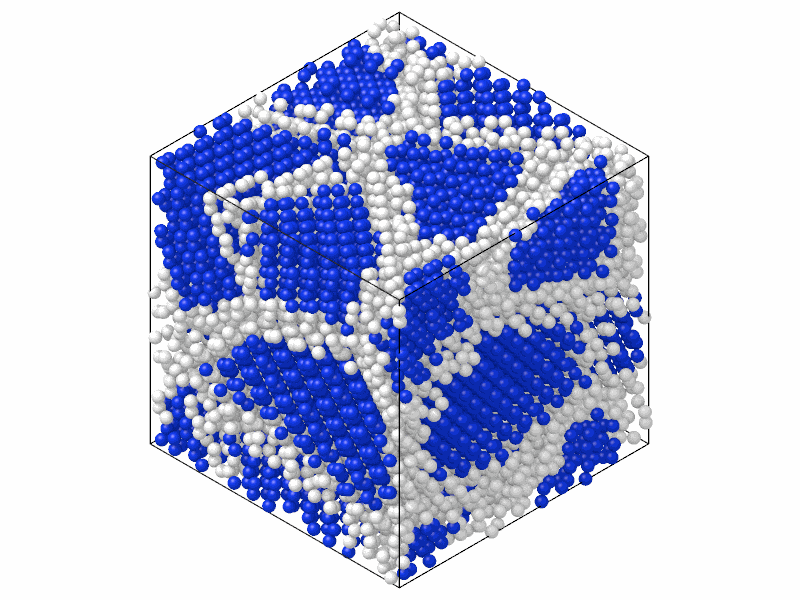
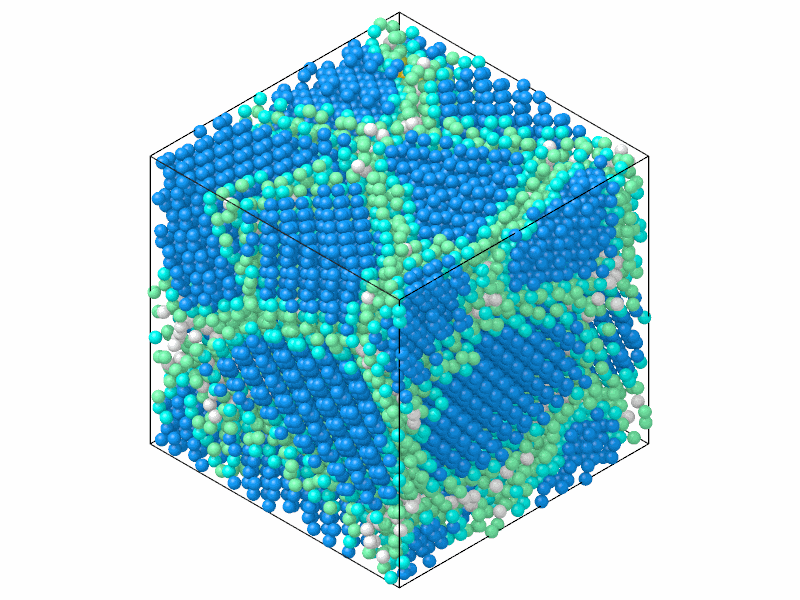
Diamond structure: the first and second neighbors of diamond atoms, as OVITO
DiamondStructure now gives the seven types of OVITO's Identify diamond
structure, with its numbers and colors: other, cubic diamond and its first
and second neighbors, hexagonal diamond and its first and second neighbors.
After the diamond atoms, atom by atom in order, the other atoms among the
four nearest of a diamond atom become first neighbors, and those of a first
neighbor second neighbors. Compared atom by atom with OVITO.

diff --git a/tests/identify/test_structure.py b/tests/identify/test_structure.py
@@ -249,7 +249,10 @@ def test_diamond_matches_a_python_reference(kind, a):
     system = crystal(kind, a, (3, 3, 3), jitter=0.22, seed=4)
     result = DiamondStructure().compute(system)
     assert [result.names[t] for t in result.structure] == diamond(system)
-    assert 0 < result.counts()["other"] < len(system)  # a mixture
+    # a mixture: diamond atoms, and others that are their neighbors
+    crystalline = np.isin(result.structure, [1, 4]).sum()
+    assert 0 < crystalline < len(system)
+    assert np.isin(result.structure, [2, 3, 5, 6]).any()
 
 
 @pytest.mark.parametrize(
@@ -258,8 +261,8 @@ def test_diamond_matches_a_python_reference(kind, a):
 )
 def test_diamond_needs_the_bond_back_from_every_neighbor(kind, a, repeat, seed):
     """An atom that is not among the four nearest of one of its neighbors is
-    other, whatever its second neighbors look like; in these systems two such
-    atoms have second neighbors of diamond."""
+    not diamond, whatever its second neighbors look like; in these systems
+    two such atoms have second neighbors of diamond."""
     system = crystal(kind, a, repeat, jitter=0.3, seed=seed)
     nl = mdapy.NeighborList.build(system, num_neighbors=4)
     first = nl.j.reshape(-1, 4)
@@ -268,8 +271,8 @@ def test_diamond_needs_the_bond_back_from_every_neighbor(kind, a, repeat, seed):
     )
     assert one_way.sum() > 10
     result = DiamondStructure().compute(system)
-    assert np.all(result.structure[one_way] == 0)
-    assert result.counts()["other"] < len(system)  # some atoms are diamond
+    assert not np.isin(result.structure[one_way], [1, 4]).any()
+    assert np.isin(result.structure, [1, 4]).any()  # some atoms are diamond
     assert [result.names[t] for t in result.structure] == diamond(system)
 
 

diff --git a/src/mdapy/identify/_structure.py b/src/mdapy/identify/_structure.py
@@ -222,12 +222,29 @@ class AcklandJonesAnalysis:
 
 class DiamondStructure:
     """Cubic and hexagonal diamond structures, from the arrangement of the
-    second neighbors of each atom."""
+    second neighbors of each atom, and the first and second neighbors of
+    diamond atoms."""
 
     #: Names of the structure types.
-    NAMES = ("other", "cubic_diamond", "hexagonal_diamond")
-    #: Their default colors.
-    COLORS = ((0.95, 0.95, 0.95), (0.075, 0.24, 0.94), (1.0, 0.6, 0.2))
+    NAMES = (
+        "other",
+        "cubic_diamond",
+        "cubic_diamond_first_neighbor",
+        "cubic_diamond_second_neighbor",
+        "hexagonal_diamond",
+        "hexagonal_diamond_first_neighbor",
+        "hexagonal_diamond_second_neighbor",
+    )
+    #: Their default colors, those of OVITO.
+    COLORS = (
+        (0.95, 0.95, 0.95),
+        (19 / 255, 160 / 255, 254 / 255),
+        (0 / 255, 254 / 255, 245 / 255),
+        (126 / 255, 254 / 255, 181 / 255),
+        (254 / 255, 137 / 255, 0 / 255),
+        (254 / 255, 220 / 255, 0 / 255),
+        (204 / 255, 229 / 255, 81 / 255),
+    )
 
     def compute(
         self,
@@ -249,7 +266,11 @@ class DiamondStructure:
         Returns
         -------
         StructureResult
-            Types ``other``, ``cubic_diamond`` and ``hexagonal_diamond``.
+            Types ``other``, ``cubic_diamond``,
+            ``cubic_diamond_first_neighbor``,
+            ``cubic_diamond_second_neighbor``, ``hexagonal_diamond``,
+            ``hexagonal_diamond_first_neighbor`` and
+            ``hexagonal_diamond_second_neighbor``.
 
         Raises
         ------

diff --git a/src/cpp/identify/structure.h b/src/cpp/identify/structure.h
@@ -77,13 +77,26 @@ void ackland_jones_nearest(const double* positions, std::int64_t n, const double
                            const double* origin, const bool* pbc, int k, std::int8_t* types,
                            const Control& control = {});
 
-// Diamond structures: 0 other, 1 cubic, 2 hexagonal.
-enum Diamond : std::int8_t { kNotDiamond = 0, kCubicDiamond = 1, kHexagonalDiamond = 2 };
+// Diamond structures, as OVITO numbers them: other, cubic diamond and its
+// first and second neighbors, hexagonal diamond and its first and second
+// neighbors.
+enum Diamond : std::int8_t {
+    kNotDiamond = 0,
+    kCubicDiamond = 1,
+    kCubicFirst = 2,
+    kCubicSecond = 3,
+    kHexagonalDiamond = 4,
+    kHexagonalFirst = 5,
+    kHexagonalSecond = 6
+};
 
 // Cubic or hexagonal diamond for each of n atoms from its four nearest
 // neighbors, the first four pairs of each atom in list, nearest first: the
 // twelve second neighbors, reached through the first ones, must form fcc
-// (cubic) or hcp (hexagonal) under adaptive common neighbor analysis.
+// (cubic) or hcp (hexagonal) under adaptive common neighbor analysis. Then,
+// atom by atom in order, the other atoms among the four nearest of a
+// diamond atom become its first neighbors, and the other atoms among the
+// four nearest of a first neighbor its second neighbors.
 void identify_diamond(const neighbor::ListView& list, std::int64_t n, std::int8_t* types,
                       const Control& control = {});
 

diff --git a/src/cpp/identify/structure.cpp b/src/cpp/identify/structure.cpp
@@ -515,6 +515,27 @@ void identify_diamond(const neighbor::ListView& list, std::int64_t n, std::int8_
             }
         },
         control);
+    // the neighbors of diamond atoms, then theirs, in the order of the atoms:
+    // the first atom to reach one decides its type
+    const auto mark = [&](std::int8_t cubic, std::int8_t hexagonal, std::int8_t cubic_mark,
+                          std::int8_t hexagonal_mark) {
+        double unused[4 * 3];
+        index_t neighbors[4];
+        for (std::int64_t i = 0; i < n; ++i) {
+            if (types[i] != cubic && types[i] != hexagonal) {
+                continue;
+            }
+            const std::int64_t m = std::min<std::int64_t>(list.gather(i, unused, 4, neighbors), 4);
+            for (std::int64_t a = 0; a < m; ++a) {
+                std::int8_t& t = types[neighbors[a]];
+                if (t == kNotDiamond) {
+                    t = types[i] == cubic ? cubic_mark : hexagonal_mark;
+                }
+            }
+        }
+    };
+    mark(kCubicDiamond, kHexagonalDiamond, kCubicFirst, kHexagonalFirst);
+    mark(kCubicFirst, kHexagonalFirst, kCubicSecond, kHexagonalSecond);
 }
 
 void chill_plus(const neighbor::ListView& list, std::int64_t n, std::int8_t* types,

diff --git a/tests/identify/references.py b/tests/identify/references.py
@@ -96,7 +96,9 @@ def centro_symmetry(system, k):
 
 def diamond(system):
     """Diamond type of each atom: the CNA of its twelve second neighbors,
-    when it is among the four nearest of each of its neighbors."""
+    when it is among the four nearest of each of its neighbors; then, atom by
+    atom, the other atoms among the four nearest of a diamond atom are its
+    first neighbors, and those of a first neighbor its second neighbors."""
     nl = mdapy.NeighborList.build(system, num_neighbors=4)
     v = nl.vectors.reshape(len(system), 4, 3)
     j = nl.j.reshape(len(system), 4)
@@ -118,6 +120,17 @@ def diamond(system):
         names.append(
             {"fcc": "cubic_diamond", "hcp": "hexagonal_diamond"}.get(name, "other")
         )
+    for kind, mark in (
+        ("diamond", "first_neighbor"),
+        ("first_neighbor", "second_neighbor"),
+    ):
+        for i in range(len(system)):
+            if not names[i].endswith(kind):
+                continue
+            crystal = names[i].split("_diamond")[0] + "_diamond"
+            for a in j[i]:
+                if names[a] == "other":
+                    names[a] = f"{crystal}_{mark}"
     return names
 
 

diff --git a/tests/identify/test_ovito.py b/tests/identify/test_ovito.py
@@ -120,10 +120,9 @@ def test_diamond_structure(kind, a, box):
     theirs = np.asarray(
         ovito_particles(system, IdentifyDiamondModifier())["Structure Type"]
     )
-    # OVITO also marks the first and second neighbors of diamond atoms, which
-    # are other here
-    as_ours = np.array([0, 1, 0, 0, 2, 0, 0])[theirs]
-    check_types(DiamondStructure().compute(system).structure, as_ours)
+    check_types(DiamondStructure().compute(system).structure, theirs)
+    # some atoms are first or second neighbors of diamond ones
+    assert np.isin(theirs, [2, 3, 5, 6]).any()
 
 
 @pytest.mark.parametrize(

diff --git a/tests/build/test_dislocation_models.py b/tests/build/test_dislocation_models.py
@@ -341,7 +341,7 @@ def test_dissociated_cylinder(name):
     if spec.structure == "fcc":
         fault = np.asarray(CommonNeighborAnalysis().compute(system).structure) == 2
     else:
-        fault = np.asarray(DiamondStructure().compute(system).structure) == 2
+        fault = np.asarray(DiamondStructure().compute(system).structure) == 4
     # in the two layers on the glide plane between the partials
     assert fault.sum() >= 4
     assert np.abs(x[fault]).max() < width / 2 + 1.5 and np.abs(y[fault]).max() < 3.5

diff --git a/docs/analysis/diamond.md b/docs/analysis/diamond.md
@@ -21,7 +21,7 @@ positions = ((cells + basis) * a).reshape(-1, 3)
 system = mp.System(positions, mp.Box(3 * a), elements="Si")
 
 result = DiamondStructure().compute(system)
-result.counts()  # {'other': 0, 'cubic_diamond': 216, 'hexagonal_diamond': 0}
+result.counts()["cubic_diamond"]  # 216
 ```
 
 In a polycrystal of silicon:
@@ -39,9 +39,10 @@ render(grains, "images/diamond.png", color=structures, width=800, height=600)
 
 ![Diamond structure analysis of a silicon polycrystal](images/diamond.png)
 
-*Six grains of silicon as built: cubic diamond in blue. An atom is cubic
-diamond only if its second neighbors are in order too, so the boundaries
-(white) are about two neighbor shells thick on each side.*
+*Six grains of silicon as built: cubic diamond in blue, its first and
+second neighbors in cyan and green. An atom is cubic diamond only if its
+second neighbors are in order too; the atoms of the boundaries next to the
+grains are their neighbors, the others white.*
 
 ## Parameters
 
@@ -58,7 +59,13 @@ A [`StructureResult`](overview.md#results) with the types
 |---|---|---|
 | 0 | `other` | light grey |
 | 1 | `cubic_diamond` | blue |
-| 2 | `hexagonal_diamond` | orange |
+| 2 | `cubic_diamond_first_neighbor` | cyan |
+| 3 | `cubic_diamond_second_neighbor` | light green |
+| 4 | `hexagonal_diamond` | orange |
+| 5 | `hexagonal_diamond_first_neighbor` | yellow |
+| 6 | `hexagonal_diamond_second_neighbor` | yellow green |
+
+The types, their numbers and their colors are those of OVITO.
 
 ## Errors
 
@@ -74,8 +81,13 @@ atom is `other`. The other three of each give the 12 second neighbors of the
 atom, which form an fcc shell in cubic diamond and an hcp shell in hexagonal
 diamond. Common neighbor analysis of these 12, with the cutoff
 $\frac{1+\sqrt 2}{2}$ times their mean distance, decides: fcc is
-`cubic_diamond` and hcp `hexagonal_diamond`. The neighbors of diamond atoms
-that are not diamond themselves are `other`.
+`cubic_diamond` and hcp `hexagonal_diamond`. Then, atom by atom in the
+order of the system, an atom that is still `other` and among the 4 nearest
+of a diamond atom becomes its first neighbor (of cubic or hexagonal
+diamond, as that atom); after all first neighbors, an atom that is still
+`other` and among the 4 nearest of a first neighbor becomes a second
+neighbor of the same kind. The first atom in order to reach an atom
+decides its kind.
 
 !!! quote "Please cite"
     [Maras et al. (2016)](../reference/references.md#maras2016).

diff --git a/docs/development/release-notes.md b/docs/development/release-notes.md
@@ -185,7 +185,8 @@ mdapy 2.0 is a complete rewrite and is not compatible with mdapy 1.x.
   cutoff, and [`AcklandJonesAnalysis`](../analysis/ackland-jones.md), agreeing
   atom by atom with LAMMPS, for fcc, hcp, bcc and icosahedral atoms;
   [`DiamondStructure`](../analysis/diamond.md) for cubic and hexagonal
-  diamond; [`ChillPlus`](../analysis/chill-plus.md) for ice, hydrates and
+  diamond and their first and second neighbors, as OVITO;
+  [`ChillPlus`](../analysis/chill-plus.md) for ice, hydrates and
   liquid water; and the [centro-symmetry](../analysis/csp.md) and
   [common neighbor](../analysis/cnp.md) parameters.
 - [`ChemicalSpecies`](../analysis/species.md): molecules and their Hill
